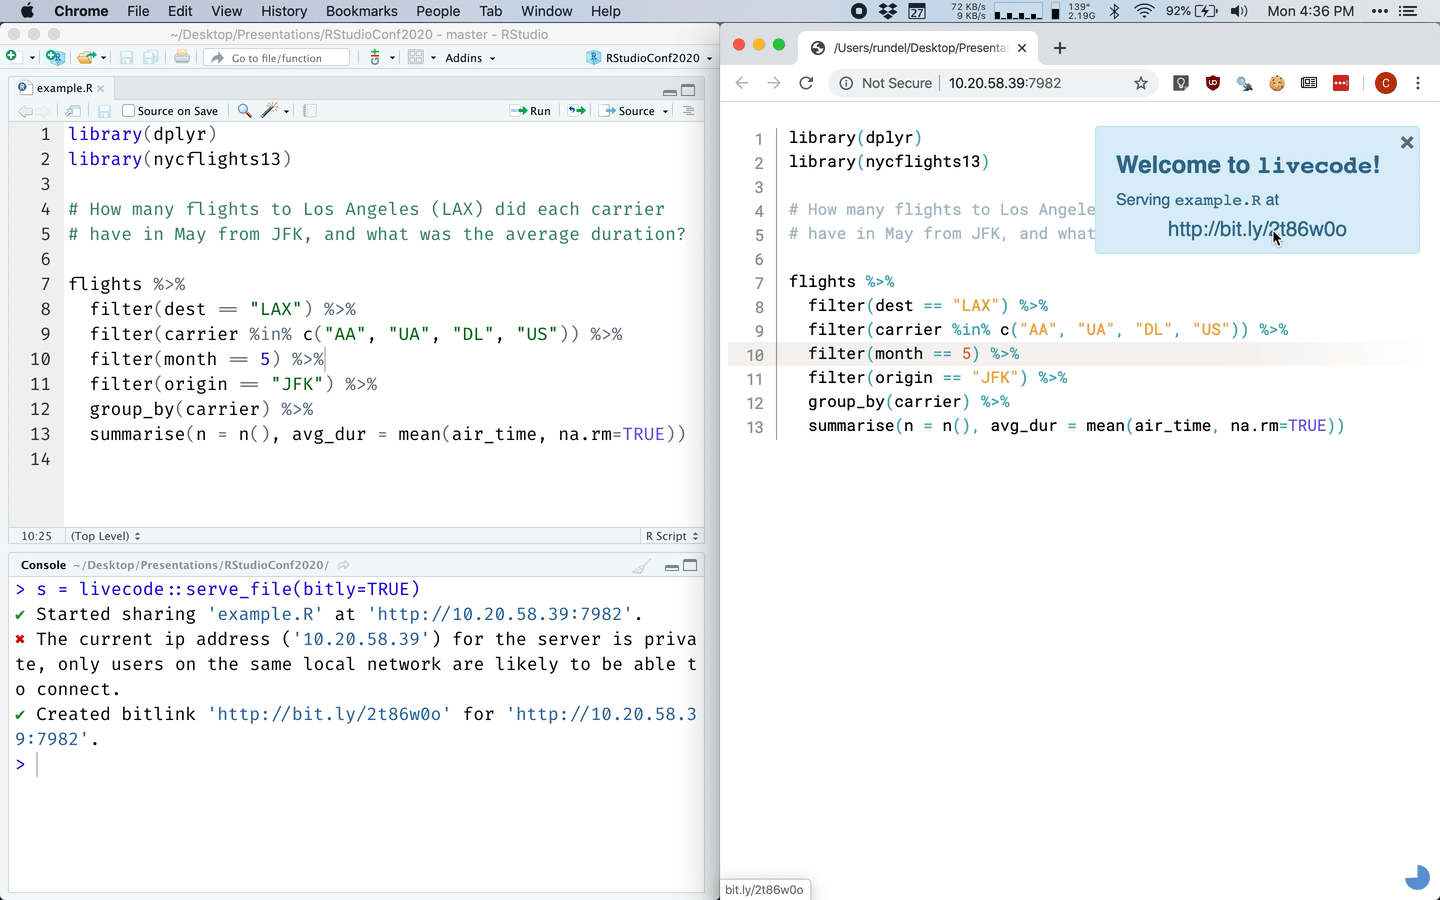
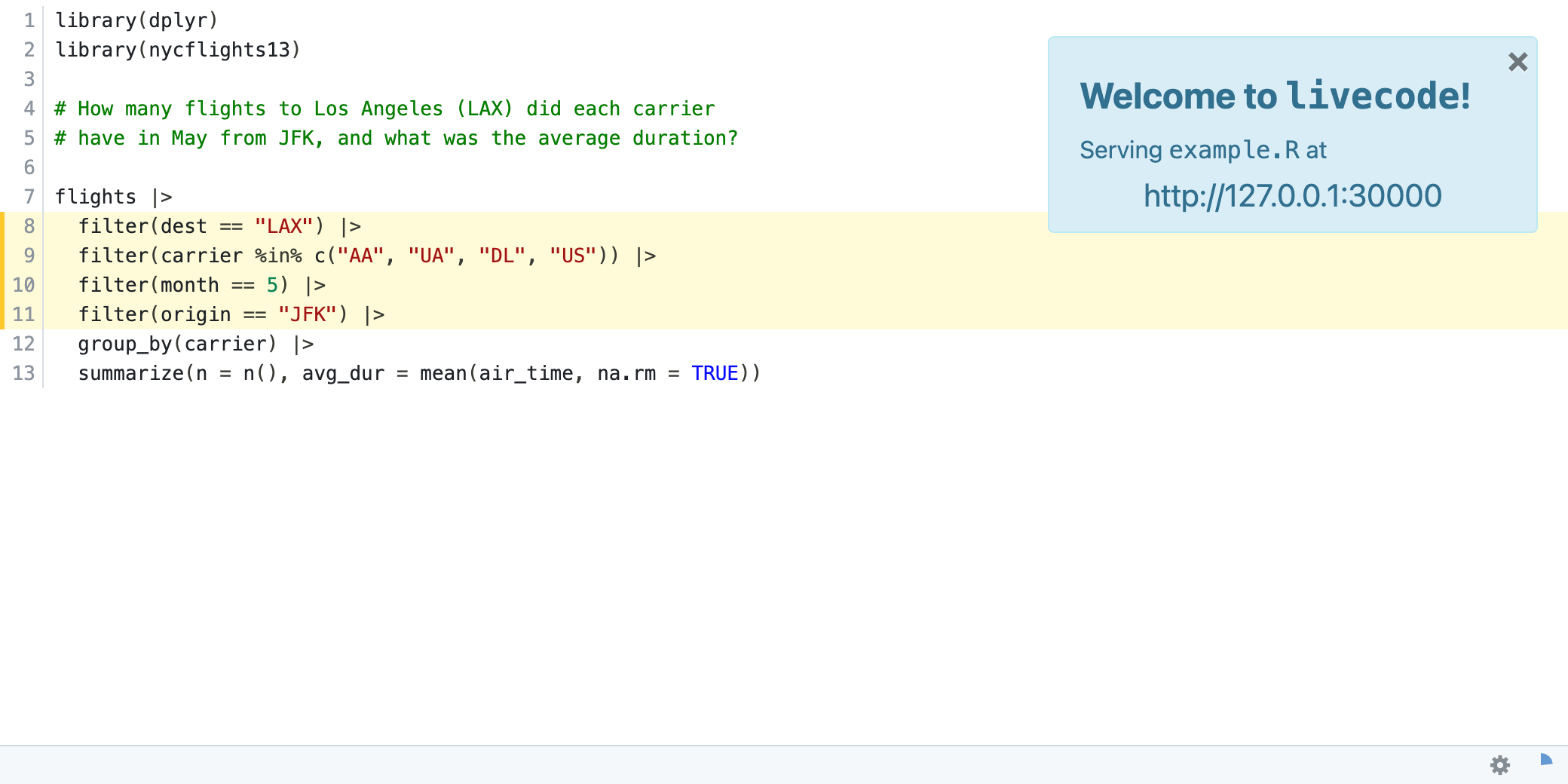
Rewrite the README as plain markdown with new screenshots

Changed region(s): [[0.0, 0.0, 1.0, 1.0], [0.9375, 0.949, 1.0, 1.0]]

diff --git a/README.md b/README.md
@@ -1,9 +1,6 @@
-
-
 # livecode <img src='man/figures/logo.png' align="right" height="140" />
 
 <!-- badges: start -->
-
 [![R-CMD-check](https://github.com/rundel/livecode/actions/workflows/R-CMD-check.yaml/badge.svg)](https://github.com/rundel/livecode/actions/workflows/R-CMD-check.yaml)
 ![](https://img.shields.io/badge/lifecycle-experimental-orange.svg)
 <!-- badges: end -->
@@ -14,7 +11,7 @@ livecode is an R package that lets you broadcast a local R (or any other text) d
 
 <br/>
 
-![](man/figures/livecode.png)
+![The livecode page: the file with syntax highlighting, the selected lines highlighted, a welcome message, and a status bar along the bottom](man/figures/livecode.png)
 
 ## Installation
 
@@ -47,11 +44,26 @@ server$stop()
 #> ✔ Stopped server at <http://192.168.1.128:30000>.
 ```
 
-The server listens on the address of your preferred network interface, which you can inspect (and override with the `ip` argument) using `livecode::network_interfaces()`. Only IPv4 addresses are supported.
+The server listens on the address of your preferred network interface, which you can inspect (and override with the `ip` argument) using `livecode::network_interfaces()`. Only IPv4 addresses are supported. Students open that address in a browser.
 
-The page highlights the file according to its extension (R, Quarto and R Markdown, Python, SQL, and other common languages, with anything else shown as plain text), numbers the lines as they are in the file, and highlights and scrolls to the lines selected in the editor. If the connection drops, for example while the server restarts, the page shows that it is reconnecting and catches up on its own.
+## The page
 
-Each viewer can change the code font size and turn off following your cursor or the line highlighting from the gear button in the bottom right corner of the page. These settings only affect that viewer's page and reset to the defaults when the page is reloaded.
+The page highlights the file according to its extension (R, Quarto and R Markdown, Python, SQL, and other common languages, with anything else shown as plain text), numbers the lines as they are in the file, and highlights and scrolls to the lines selected in the editor. Messages sent with `server$send_msg()` appear as notifications in a corner of the page.
+
+A status bar along the bottom holds everything that is not code:
+
+| In the status bar                    | Meaning                                                                                   |
+|--------------------------------------|-------------------------------------------------------------------------------------------|
+| Nothing on the left                  | Connected and up to date                                                                  |
+| "Disconnected, reconnecting…"        | The connection dropped; the page retries on its own and catches up                        |
+| "The session has ended."             | You stopped the server or the broadcast                                                   |
+| "direct" or "relay" (followers only) | Whether a follower's tailcat connection goes straight to your computer or through a relay |
+| Gear button                          | Display settings for this viewer                                                          |
+| Circle                               | Time until the next update                                                                |
+
+After the session has ended the page keeps the last text it showed. The page of a server still retries quietly, so it picks up again if you restart the server at the same address.
+
+From the gear button each viewer can change the code font size and turn off following your cursor or the line highlighting. These settings only affect that viewer's page and reset to the defaults when the page is reloaded.
 
 ## Editors
 
@@ -80,11 +92,14 @@ The two IDEs differ in a few ways:
 | Formatting on save     | With `auto_save = TRUE`, warns if "Strip trailing horizontal whitespace when saving" is on | livecode never saves                                                                                       |
 | Rename or Save As      | Followed: the renamed document keeps being served                                          | Not followed: the original path stays served                                                               |
 
-The page opens in Positron's Viewer pane, and in the system browser in RStudio and other sessions (`open_browser = FALSE` opens nothing). If RStudio cannot read a document by its id, livecode says so once and reads the served document only while it is active. With `block = FALSE` in Positron, livecode cannot read the editor after startup: the page shows the file on disk with no highlight, so turn on Positron's auto save (`files.autoSave`) if you go that way. `block = TRUE` also works in RStudio and outside an IDE, for example from `Rscript`.
+A few more details:
 
-While `serve_file()` blocks, its console is busy, so `server$send_msg()` and the other server methods cannot be called from it. If you need them, use `block = FALSE` (in Positron at the cost of the live buffer and highlight).
-
-The IDE is detected automatically; set `options(livecode.editor = "none")` (or `"rstudio"`, `"positron"`) to override it.
+- Your own copy of the page opens in the IDE's Viewer pane, and in the system browser outside an IDE. Set `options(livecode.viewer = FALSE)` to always use the browser; `open_browser = FALSE` opens nothing.
+- The Viewer cannot always reach the server's network address: RStudio's shows pages of this computer only, and in a Posit Workbench session your browser reaches the session through Workbench. So in an IDE the server also serves your copy of the page on 127.0.0.1, under a random token in its address without which nothing is served there. Students keep using the network address or the tailcat broadcast.
+- If RStudio cannot read a document by its id, livecode says so once and reads the served document only while it is active.
+- With `block = FALSE` in Positron, livecode cannot read the editor after startup: the page shows the file on disk with no highlight, so turn on Positron's auto save (`files.autoSave`) if you go that way. `block = TRUE` also works in RStudio and outside an IDE, for example from `Rscript`.
+- While `serve_file()` blocks, its console is busy, so `server$send_msg()` and the other server methods cannot be called from it. If you need them, use `block = FALSE` (in Positron at the cost of the live buffer and highlight).
+- The IDE is detected automatically; set `options(livecode.editor = "none")` (or `"rstudio"`, `"positron"`) to override it.
 
 ## Broadcasting over tailcat
 
@@ -99,11 +114,37 @@ server = livecode::serve_file("lecture.R", tailcat = TRUE)
 
 # Student, from any R session with internet access
 livecode::follow("tc...")
+#> ℹ Connecting to the broadcast…
+#> ✔ Following 'lecture.R' at <http://127.0.0.1:28664/0dda6f56c91a20cf430cf5a918ccc058/>.
+#>   Run livecode::unfollow() to stop following.
 ```
 
-`follow()` opens a page served by the student's own R session, on 127.0.0.1 only (in Positron's Viewer pane, elsewhere in the system browser), with the same view as the instructor's page: the highlighted file, the selected lines, and messages, which followers see as plain text. The page reconnects by itself if the broadcast drops or restarts. `stop_all()` stops followers too.
+![A follower's page: the same view, with the status bar showing a direct connection](man/figures/follow.png)
+
+### For students
+
+`follow()` opens a page served by the student's own R session, in the Viewer pane of RStudio or Positron and elsewhere in the system browser. It shows what your page shows: the highlighted file, the selected lines, and your messages, which followers see as plain text. Its status bar also says whether the connection to you is direct or goes through a relay.
+
+- The page is served on 127.0.0.1 only, under a random token in its address without which nothing is served, so only the page that `follow()` opened can read the session. This also holds when an IDE shows the page through a proxy, as Posit Workbench does.
+- `follow()` only ever displays what it receives; it never runs or saves it.
+- If the broadcast drops, the page says that it is reconnecting and catches up on its own.
+- When you stop the broadcast, followers are told that the session has ended and stop reconnecting. To follow a broadcast that you start again, they run `follow()` again.
+- A follower runs until the student stops it; closing the Viewer or the browser tab does not. `livecode::unfollow()` stops every follower of the R session, and `livecode::unfollow(port)` only the one whose page is on that port, the number after `127.0.0.1:` in its address.
+- Running `follow()` again with an address that is already being followed reuses the running follower and its page.
+
+### For the instructor
 
 On a running server, `server$start_tailcat()` and `server$stop_tailcat()` start and stop the broadcast and `server$tailcat_address` gives the address; `server$stop()` stops the broadcast as well. The broadcast runs in a separate R process, so a problem in it cannot take down your session, and it keeps going while your session is busy. It only ever sends: nothing a follower sends is read, followers that fall behind are dropped (they reconnect and catch up), and at most 150 are connected at once (`max_clients`).
+
+If the local network address is of no use, or you would rather not show it, add `local_only = TRUE`. The page is then served on 127.0.0.1 only, for your own use, and the tailcat broadcast is the only way in for everyone else. It is only allowed together with `tailcat`.
+
+``` r
+server = livecode::serve_file("lecture.R", tailcat = TRUE, local_only = TRUE)
+#> ✔ Started sharing 'lecture.R' at <http://127.0.0.1:30000>.
+#> ℹ The page is served on this computer only, everyone else follows the tailcat broadcast.
+#> ✔ Tailcat broadcast ready. Students run:
+#> livecode::follow("tc...")
+```
 
 By default every broadcast gets a fresh address that stops working when the broadcast stops. To post an address before class, create keys ahead of time and pass them at class time:
 
@@ -115,20 +156,24 @@ server = livecode::serve_file("lecture.R", tailcat = keys)
 
 Before relying on it in class:
 
-- The address is a credential: anyone who has it can follow the session. Post it where only you can edit, such as the course site or an LMS announcement, not a shared document or chat thread, where someone could swap in the address of their own broadcast. `follow()` only ever displays what it receives; it never runs or saves it.
+- The address is a credential: anyone who has it can follow the session. Post it where only you can edit, such as the course site or an LMS announcement, not a shared document or chat thread, where someone could swap in the address of their own broadcast.
 - Use fresh keys for each class meeting. Everyone who ever had an address can use it for as long as its keys are used.
 - Students need rtailcat, which is not on CRAN yet. Installing it with `pak::pak("rundel/rtailcat")` builds it from source and needs a [Go toolchain](https://go.dev/doc/install), so have students install it before the first class.
 - Do a dry run in the room. If the network keeps devices apart, all traffic goes through the public relays, which are rate limited and have no uptime guarantee.
 
-## Managing servers
+## Managing servers and followers
 
-Every server started in the current session is tracked, so you can find or stop them even if you did not keep the returned object.
+Every server and follower started in the current session is tracked, so you can find or stop them even if you did not keep the returned object.
 
 ``` r
 # List the servers that are currently running
 livecode::list_servers()
 
-# Stop all of them
+# Stop the followers, or the one whose page is on a port
+livecode::unfollow()
+livecode::unfollow(28664)
+
+# Stop every server and follower
 livecode::stop_all()
 ```
 
